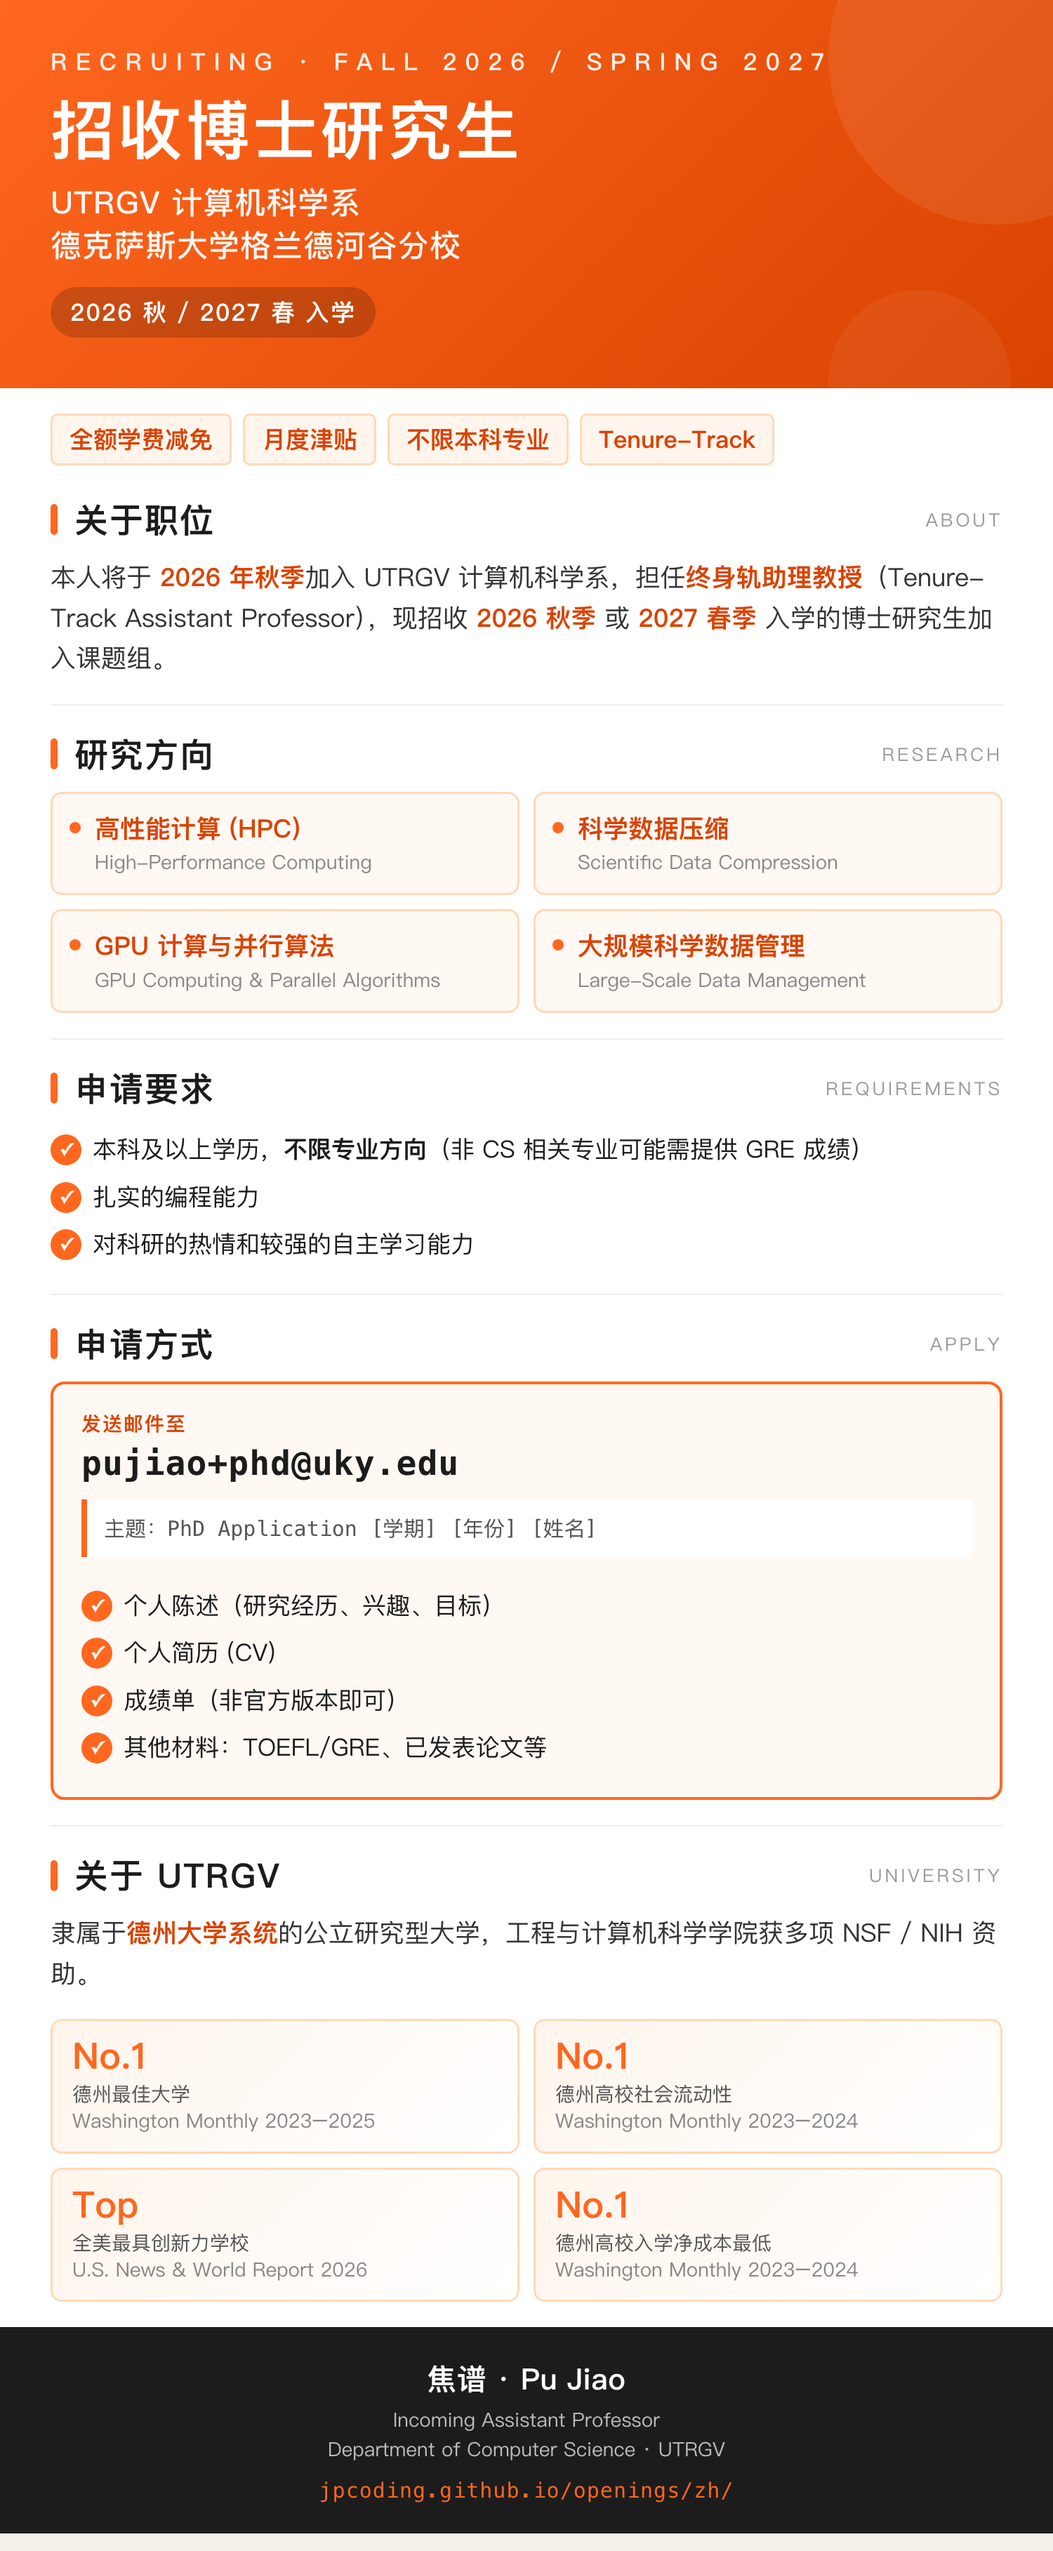
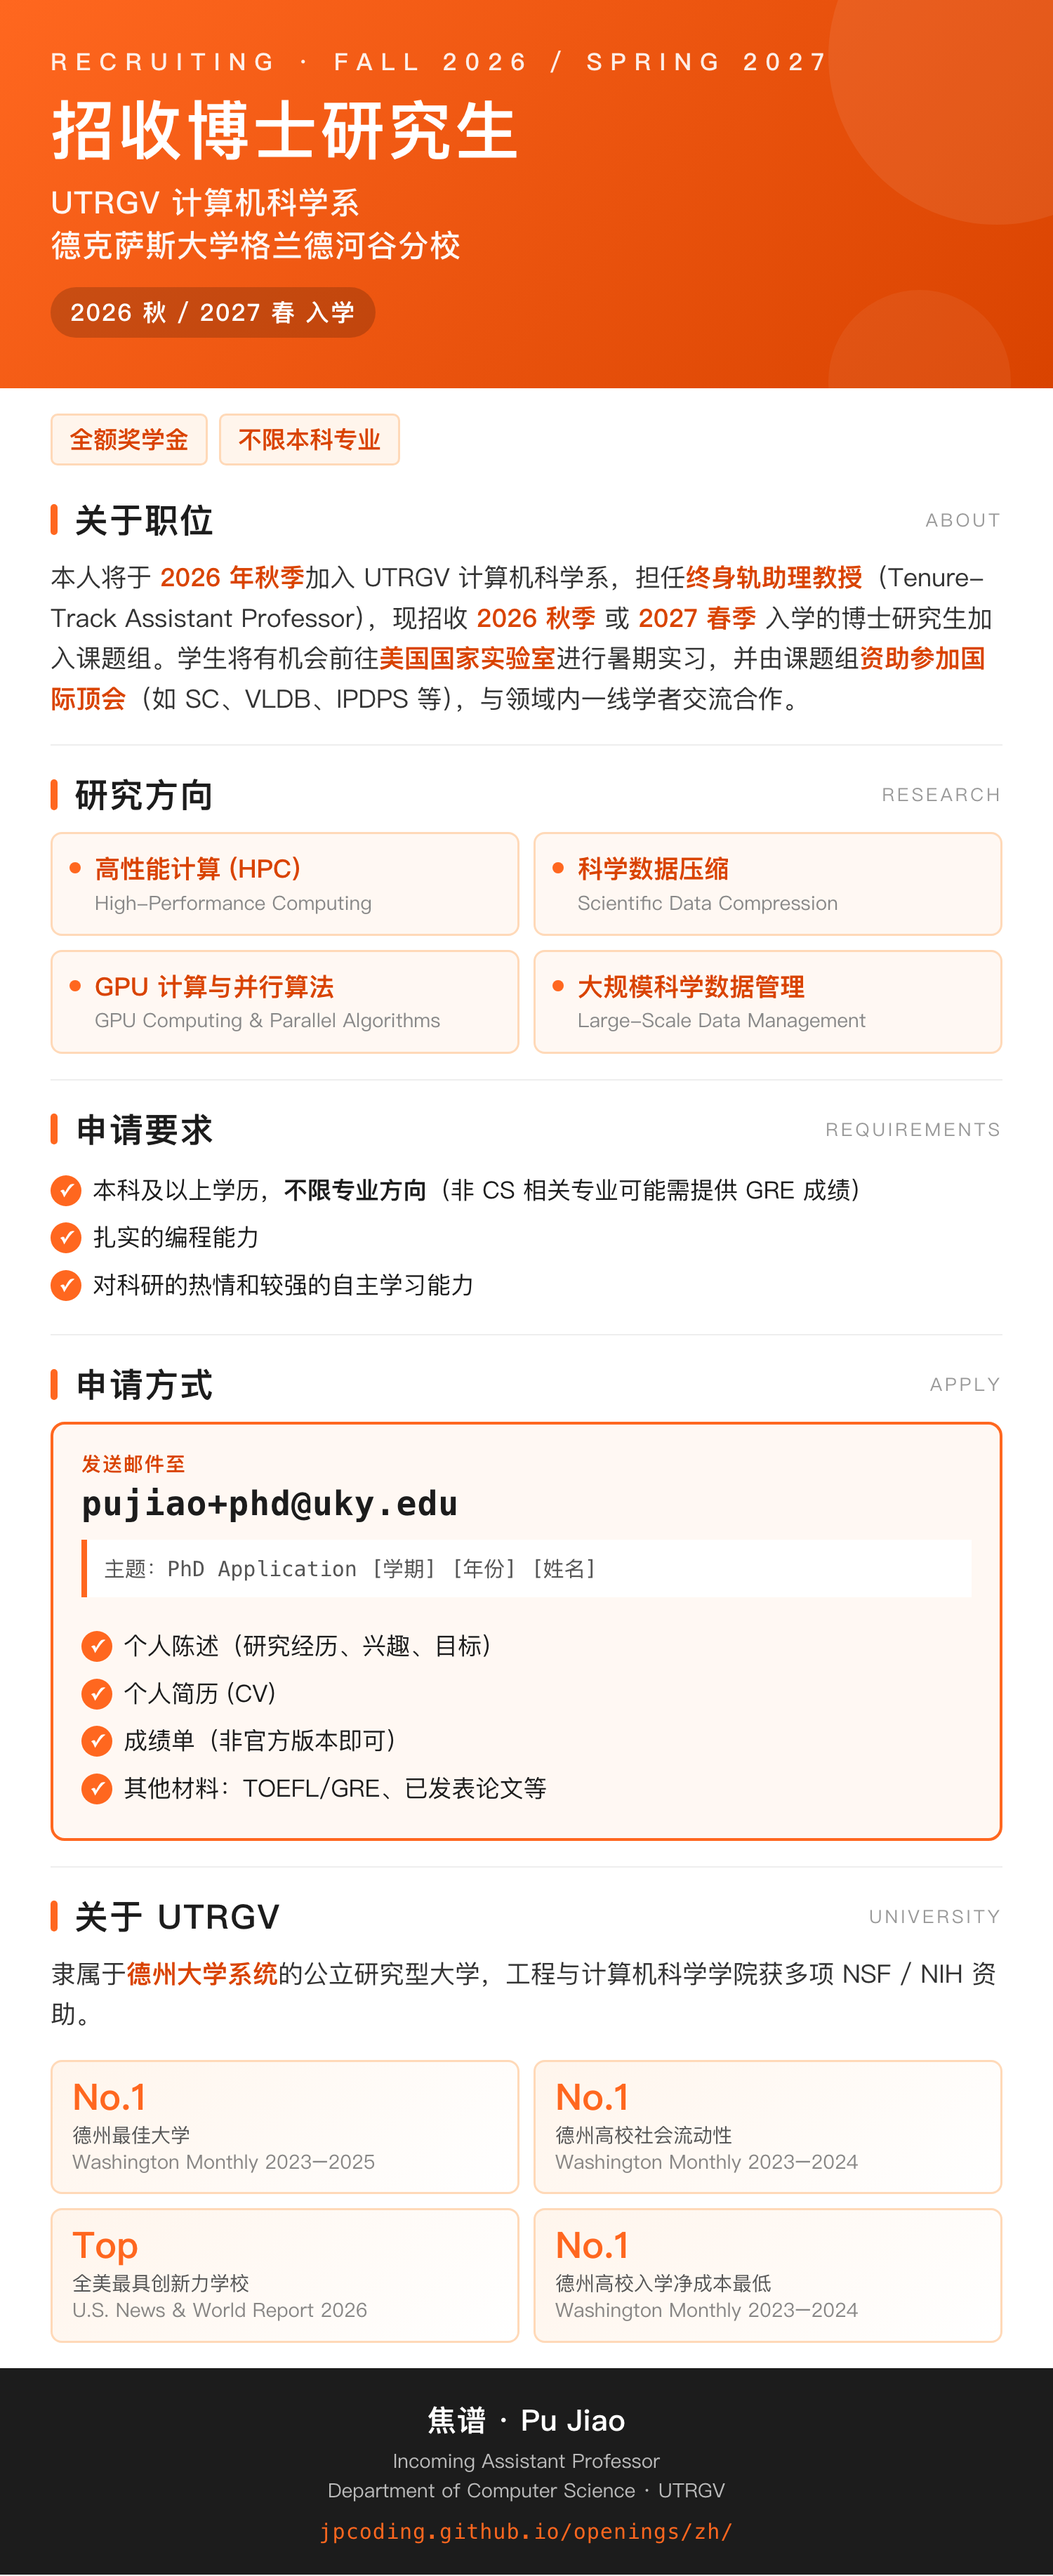
flyer: simplify tags, add intern/conference perks, retrim PNG
- Tighten ZH flyer tags to two key callouts (全额奖学金, 不限本科专业)
- Mention national-lab summer internships and conference travel funding
- Soften 学费减免 wording in openings-zh body copy
- Re-render flyer PNG and trim trailing whitespace

diff --git a/public/openings/zh/index.html b/public/openings/zh/index.html
@@ -128,7 +128,7 @@
       <main>
         <p><a href="/openings/">English version &rarr;</a></p>
 <h1 id="%E6%8B%9B%E6%94%B6%E5%8D%9A%E5%A3%AB%E7%A0%94%E7%A9%B6%E7%94%9F-%E2%80%94-2026-%E7%A7%8B%E5%AD%A3-%2F-2027-%E6%98%A5%E5%AD%A3%E5%85%A5%E5%AD%A6" tabindex="-1"><a class="header-anchor" href="#%E6%8B%9B%E6%94%B6%E5%8D%9A%E5%A3%AB%E7%A0%94%E7%A9%B6%E7%94%9F-%E2%80%94-2026-%E7%A7%8B%E5%AD%A3-%2F-2027-%E6%98%A5%E5%AD%A3%E5%85%A5%E5%AD%A6">招收博士研究生 — 2026 秋季 / 2027 春季入学</a></h1>
-<p>本人将于 <strong>2026 年秋季</strong>加入<strong>德克萨斯大学格兰德河谷分校（University of Texas Rio Grande Valley, UTRGV）计算机科学系</strong>，担任终身轨助理教授（Tenure-Track Assistant Professor），现招收 <strong>2026 秋季</strong>或 <strong>2027 春季</strong>入学的博士研究生加入课题组。该岗位提供<strong>全额学费减免</strong>及<strong>有竞争力的月度津贴</strong>。</p>
+<p>本人将于 <strong>2026 年秋季</strong>加入<strong>德克萨斯大学格兰德河谷分校（University of Texas Rio Grande Valley, UTRGV）计算机科学系</strong>，担任终身轨助理教授（Tenure-Track Assistant Professor），现招收 <strong>2026 秋季</strong>或 <strong>2027 春季</strong>入学的博士研究生加入课题组。该岗位提供<strong>学费减免</strong>及<strong>有竞争力的月度津贴</strong>。</p>
 <h2 id="%E7%A0%94%E7%A9%B6%E6%96%B9%E5%90%91" tabindex="-1"><a class="header-anchor" href="#%E7%A0%94%E7%A9%B6%E6%96%B9%E5%90%91">研究方向</a></h2>
 <ul>
 <li>高性能计算（HPC）</li>

diff --git a/scripts/utrgv-flyer-zh.html b/scripts/utrgv-flyer-zh.html
@@ -288,10 +288,8 @@
   </div>
 
   <div class="tags">
-    <span class="tag">全额学费减免</span>
-    <span class="tag">月度津贴</span>
+    <span class="tag">全额奖学金</span>
     <span class="tag">不限本科专业</span>
-    <span class="tag">Tenure-Track</span>
   </div>
 
   <section>
@@ -301,7 +299,7 @@
       <span class="en">About</span>
     </div>
     <p class="intro">
-      本人将于 <b>2026 年秋季</b>加入 UTRGV 计算机科学系，担任<b>终身轨助理教授</b>（Tenure-Track Assistant Professor），现招收 <b>2026 秋季</b> 或 <b>2027 春季</b> 入学的博士研究生加入课题组。
+      本人将于 <b>2026 年秋季</b>加入 UTRGV 计算机科学系，担任<b>终身轨助理教授</b>（Tenure-Track Assistant Professor），现招收 <b>2026 秋季</b> 或 <b>2027 春季</b> 入学的博士研究生加入课题组。学生将有机会前往<b>美国国家实验室</b>进行暑期实习，并由课题组<b>资助参加国际顶会</b>（如 SC、VLDB、IPDPS 等），与领域内一线学者交流合作。
     </p>
   </section>
 

diff --git a/src/openings-zh.md b/src/openings-zh.md
@@ -9,7 +9,7 @@ permalink: /openings/zh/
 
 # 招收博士研究生 — 2026 秋季 / 2027 春季入学
 
-本人将于 **2026 年秋季**加入**德克萨斯大学格兰德河谷分校（University of Texas Rio Grande Valley, UTRGV）计算机科学系**，担任终身轨助理教授（Tenure-Track Assistant Professor），现招收 **2026 秋季**或 **2027 春季**入学的博士研究生加入课题组。该岗位提供**全额学费减免**及**有竞争力的月度津贴**。
+本人将于 **2026 年秋季**加入**德克萨斯大学格兰德河谷分校（University of Texas Rio Grande Valley, UTRGV）计算机科学系**，担任终身轨助理教授（Tenure-Track Assistant Professor），现招收 **2026 秋季**或 **2027 春季**入学的博士研究生加入课题组。该岗位提供**学费减免**及**有竞争力的月度津贴**。
 
 ## 研究方向
 
